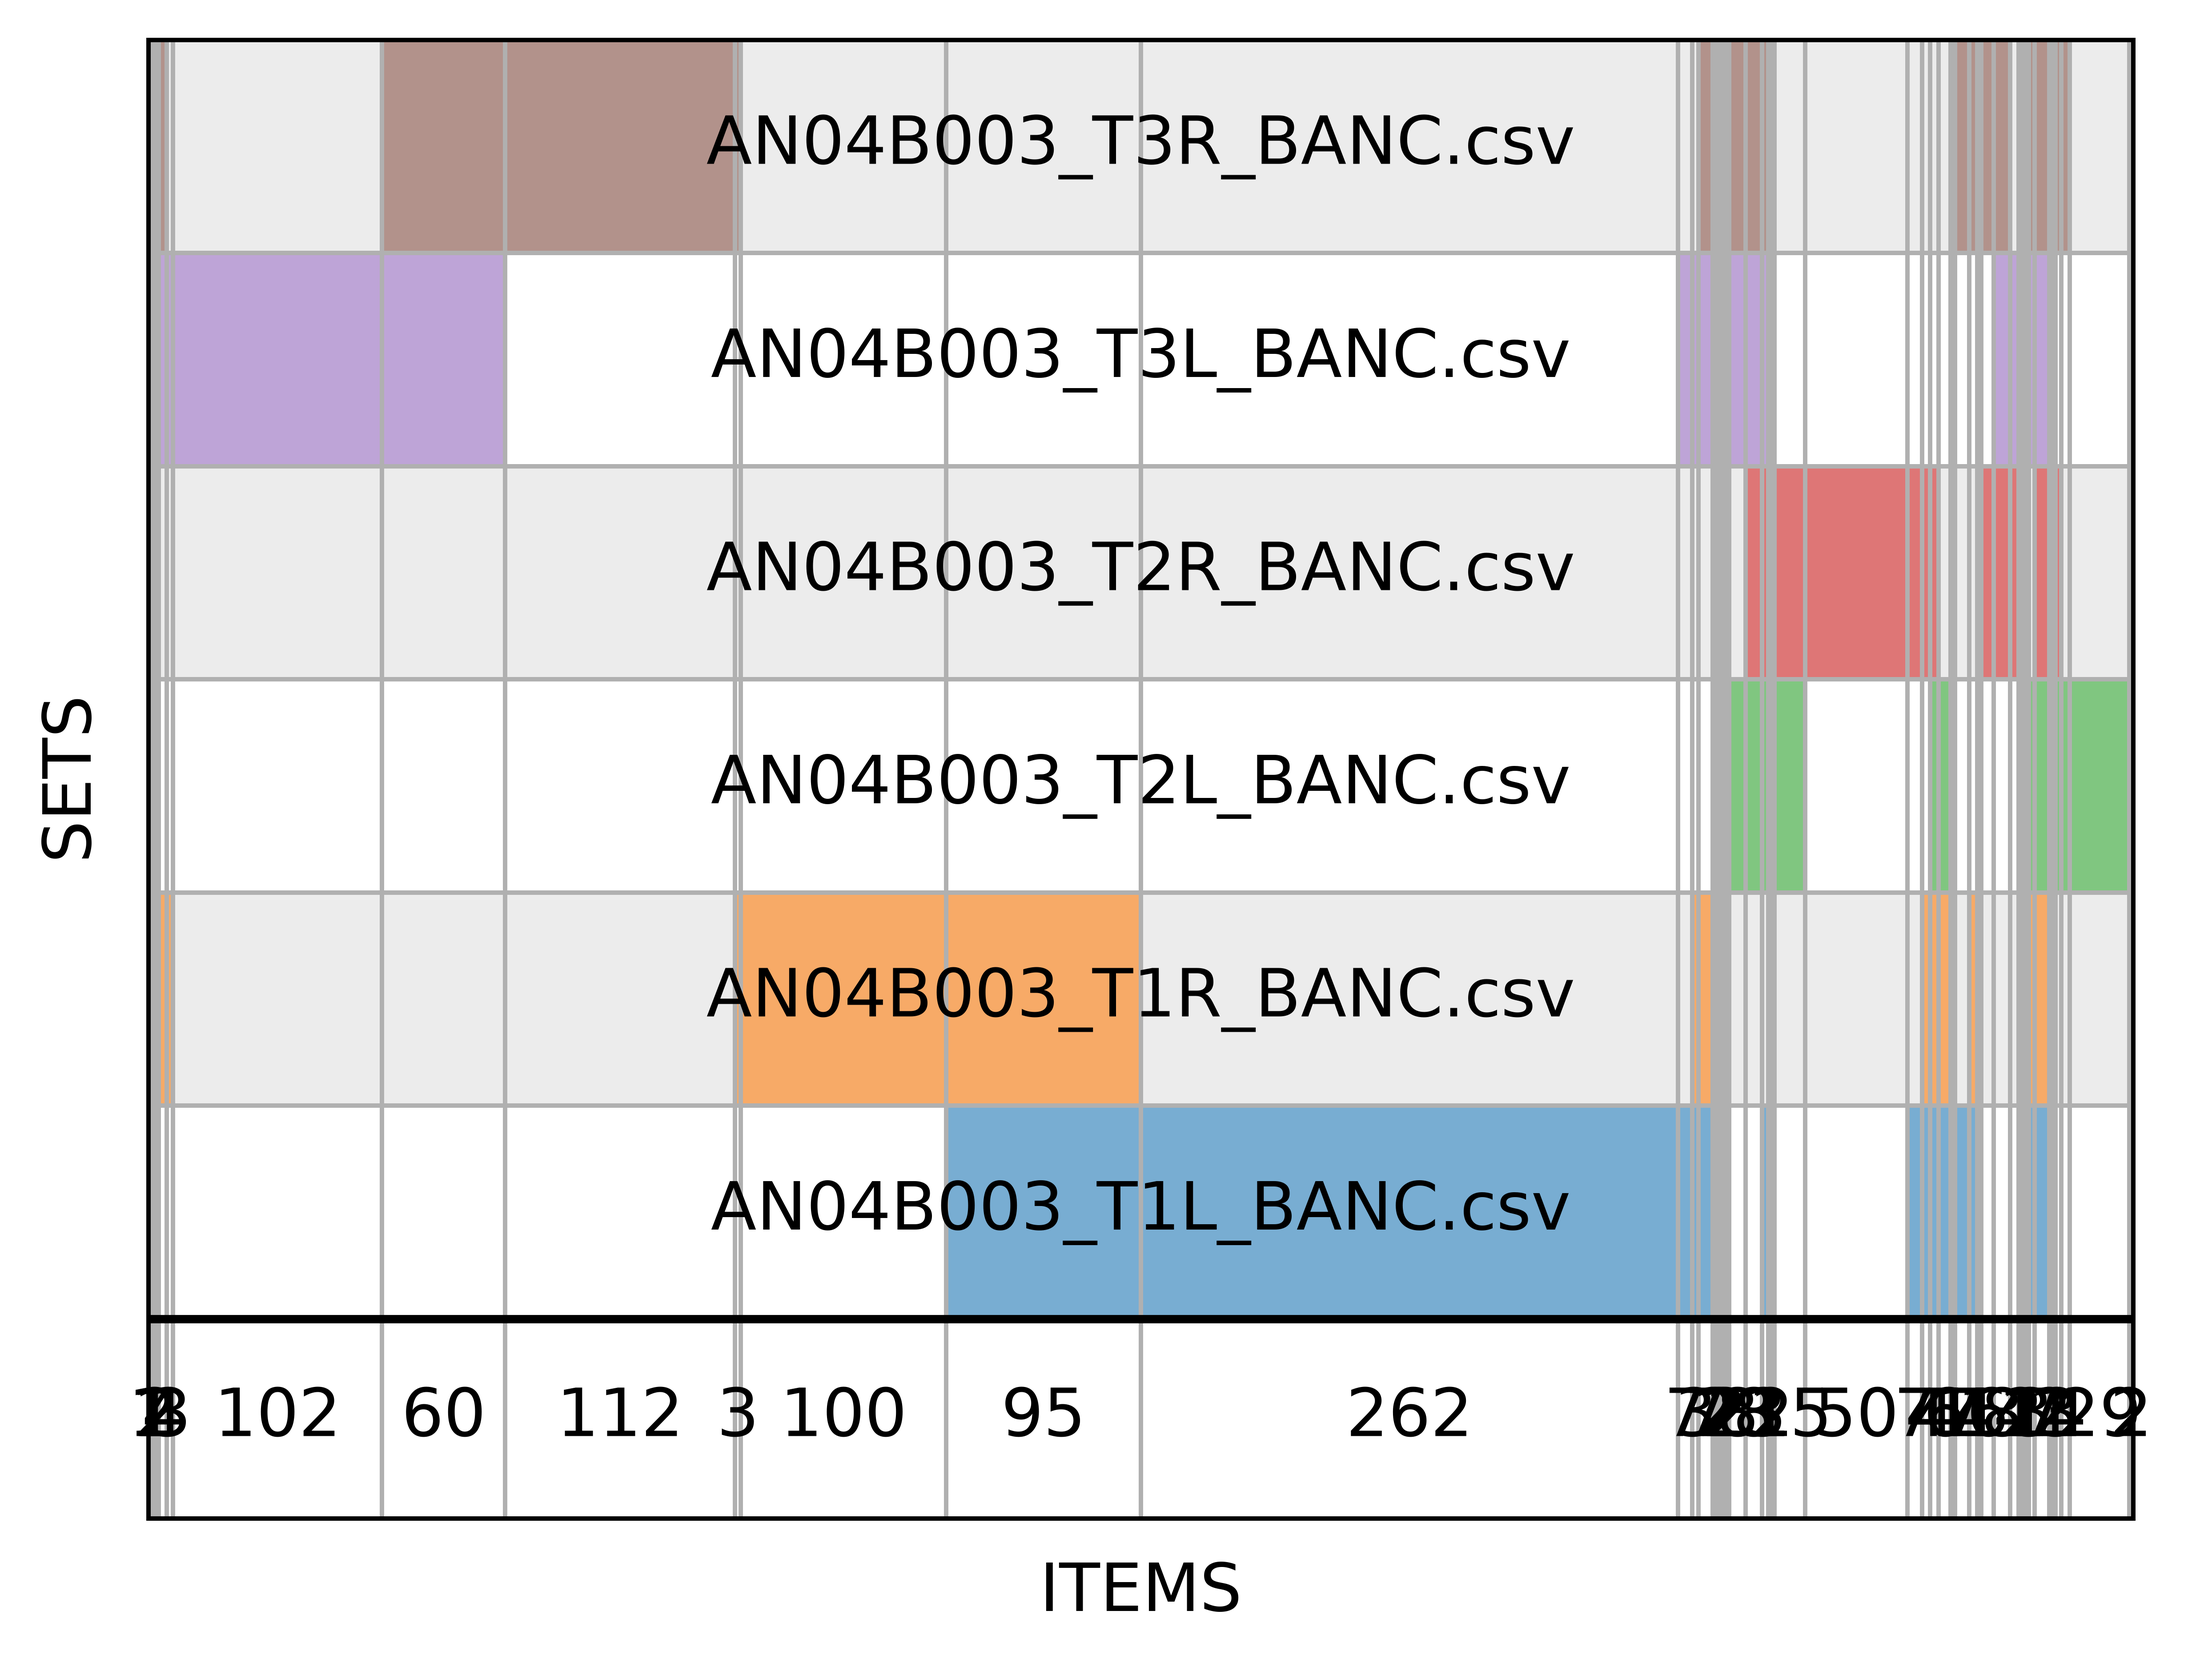
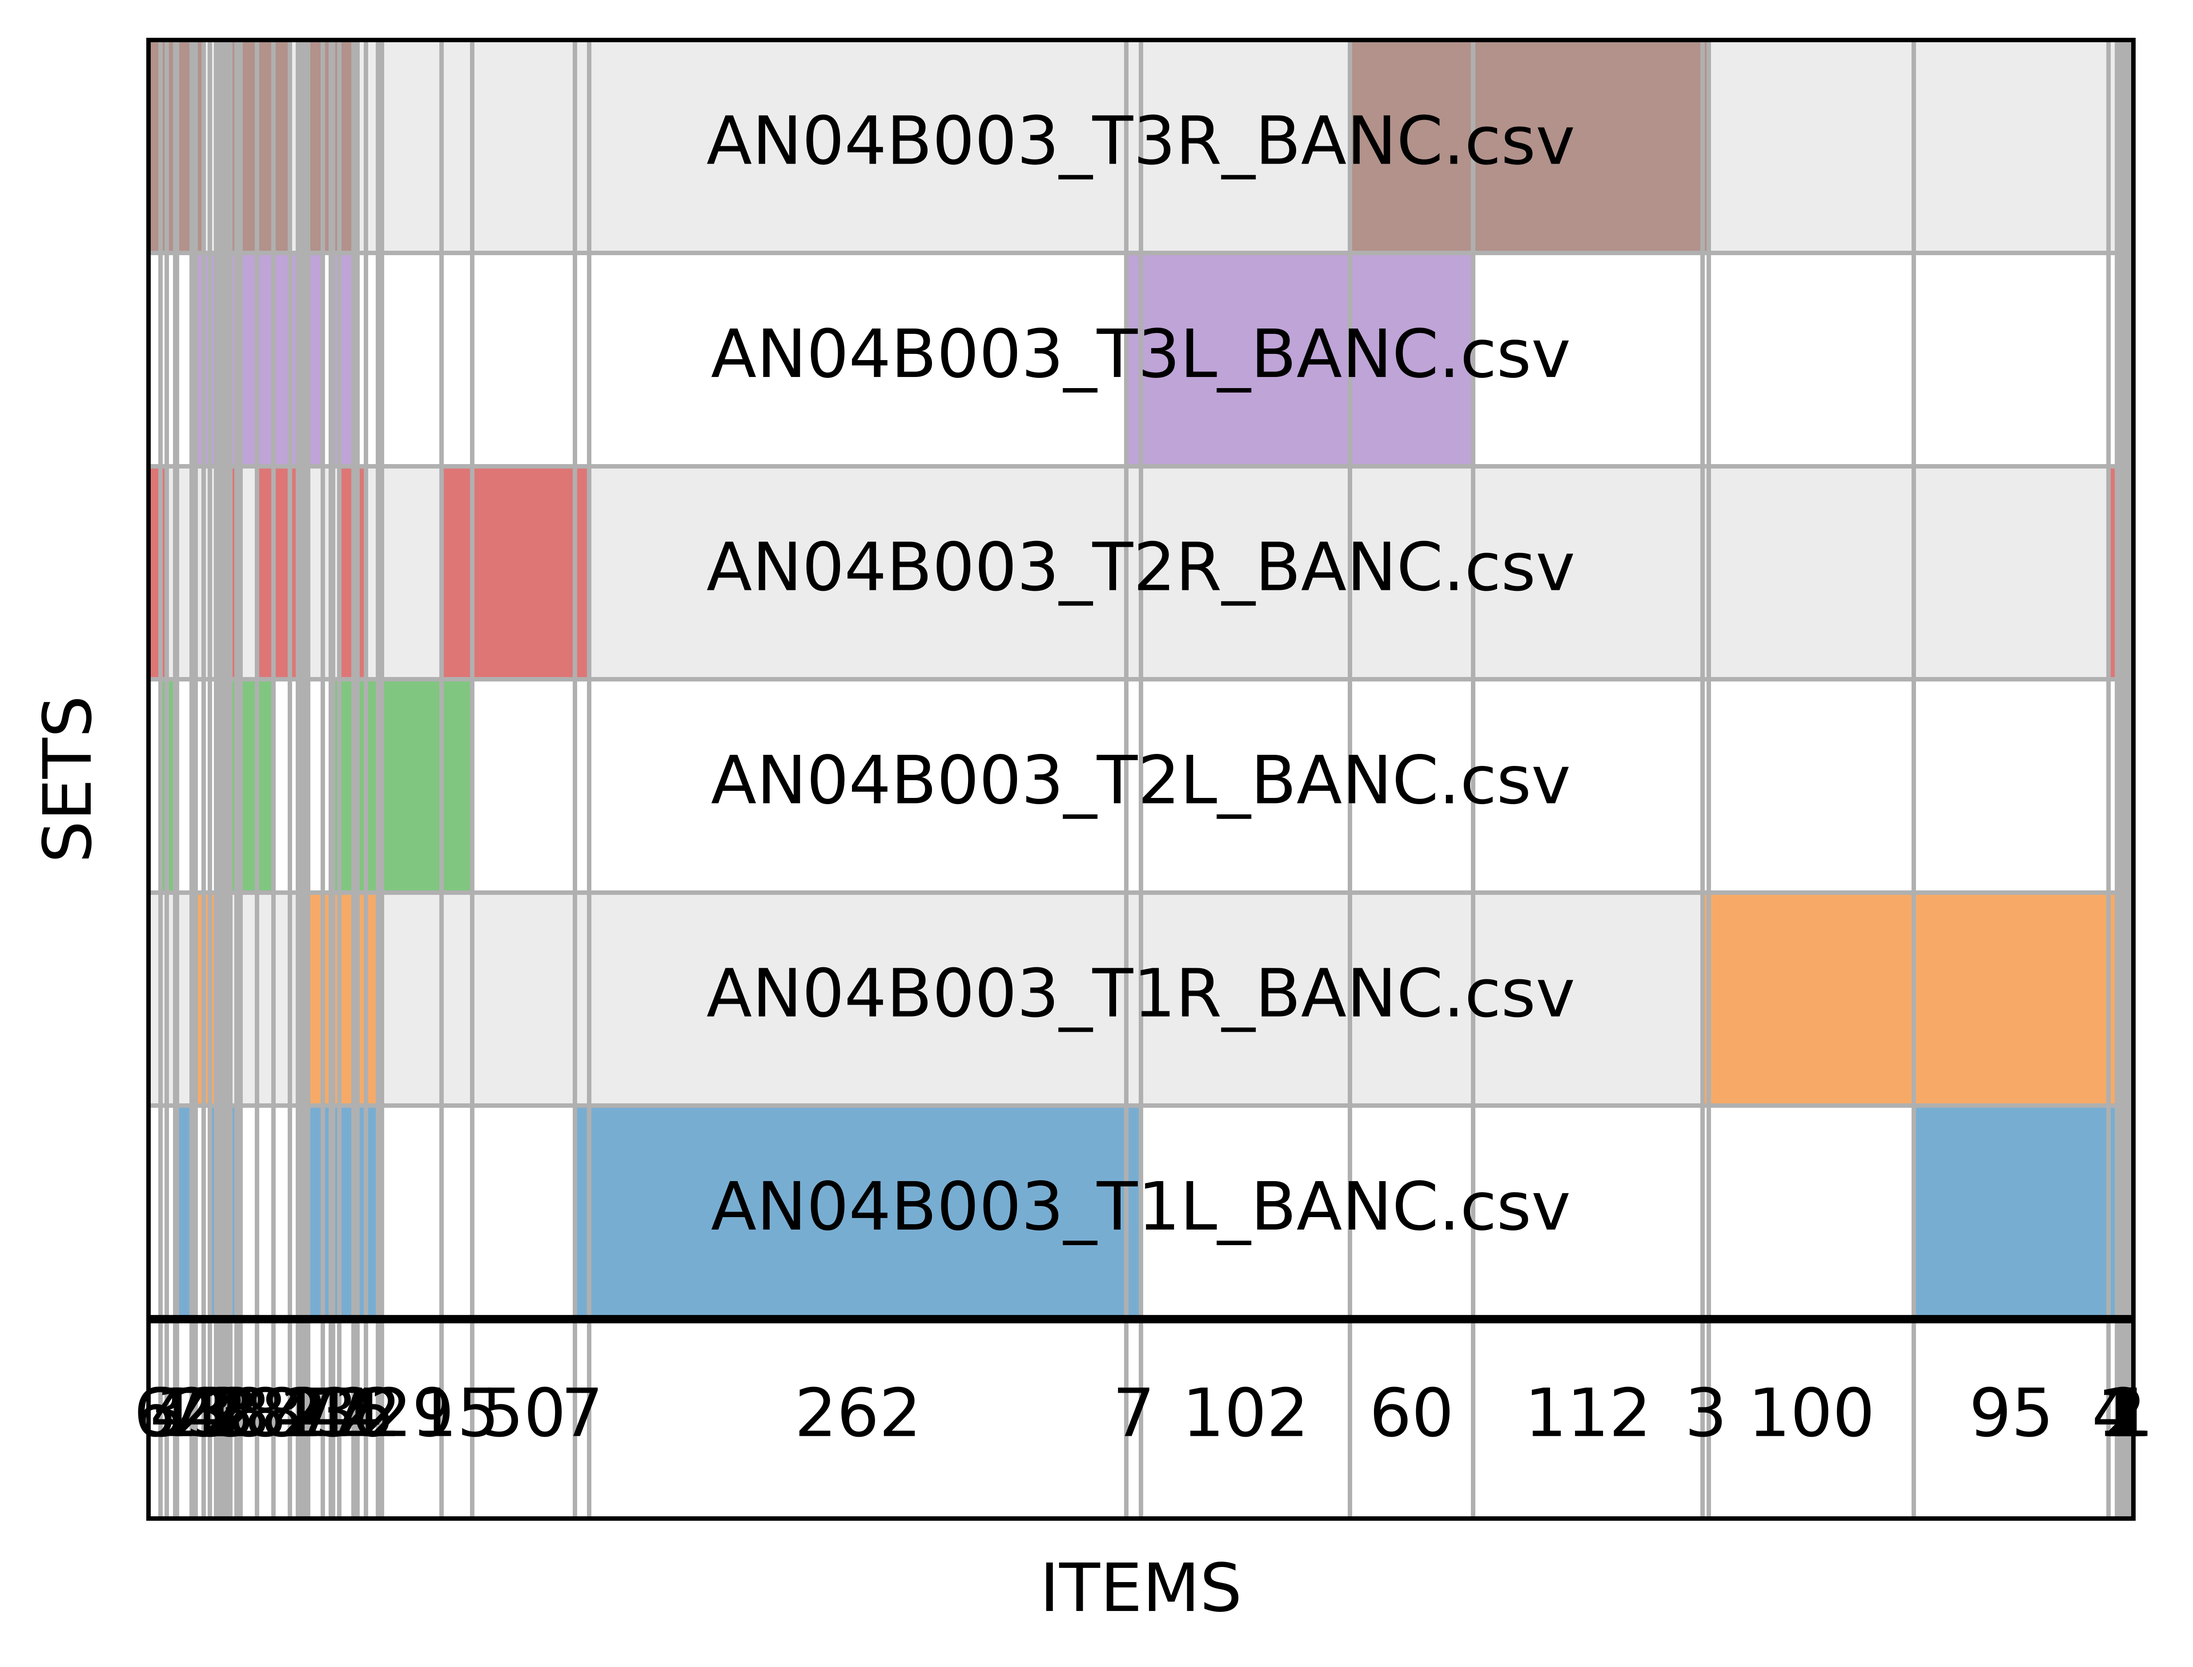
reorganize figure creation to be part of main()

diff --git a/neuronbridgesort.py b/neuronbridgesort.py
@@ -1,8 +1,7 @@
 # Some General Notes
 #   1) Upset plot is terribly outdated so you will need a dedicated conda environement for it to run with an older version of pandas
     # conda create -n upsetplot python=3.11 pandas=1.5 upsetplot matplotlib
-
-
+#   2) upset plot is terrible in general and i have decided to go forward with supervenn 
 
 # from pyvis.network import Network
 import matplotlib.pyplot as plt
@@ -16,7 +15,14 @@ def main():
     neurons_and_drivers = generate_neuron_driver_libraries()
     print('neurons and drivers from main has type', type(neurons_and_drivers), 'and a total number of ', len(neurons_and_drivers), 'keys')
 
-    generate_supervenn_plot(neurons_and_drivers)
+    drivers_per_neuron, neuronlist = generate_supervenn_plot(neurons_and_drivers)
+
+    
+    # Uncomment here if you want figure to be created
+    # supervenn(drivers_per_neuron, set_annotations=neuronlist, side_plots=False)
+    # plt.savefig("output.png", dpi=900, bbox_inches="tight")
+    # plt.close()
+    
 
     return()
 
@@ -33,8 +39,6 @@ def generate_neuron_driver_libraries():
             neuron_driver_libraries[neuron_file] = read_neuron_csvs(neuron_file)                    # read_neuron_csvs is used to parse driver data from each neuron-associated file 
 
     return(neuron_driver_libraries)
-
-
 
 def read_neuron_csvs(neuron_file):
 
@@ -57,14 +61,19 @@ def generate_supervenn_plot(neurons_and_drivers):
     for neuron in neurons_and_drivers.keys():
         drivers_per_neuron.append(neurons_and_drivers[neuron])
         neuronlist.append(neuron)
-    
-    supervenn(drivers_per_neuron, set_annotations=neuronlist, side_plots=False)
 
-    plt.savefig("output.png", dpi=900, bbox_inches="tight")
-    plt.close()
+    return(drivers_per_neuron, neuronlist)
 
+def find_unifying_or_mutually_exclusive_drivers(driverlist, neuronlist):
+    paired_drivers_neurons = list(zip(driverlist, neuronlist))
 
-    return(zip(drivers_per_neuron, neuronlist))
+    print(paired_drivers_neurons)
+
+    return()
+
+if __name__ == '__main__':
+    main()
+
 
 # def generate_supervenn_plot_claude(neurons_and_drivers):
 
@@ -84,9 +93,8 @@ def generate_supervenn_plot(neurons_and_drivers):
 #     plt.savefig("output.png", dpi=300, bbox_inches="tight")
 #     plt.close()
     
-    return()
+# return()
 
+# return(zip(drivers_per_neuron, neuronlist))
 
-if __name__ == '__main__':
-    main()
 
